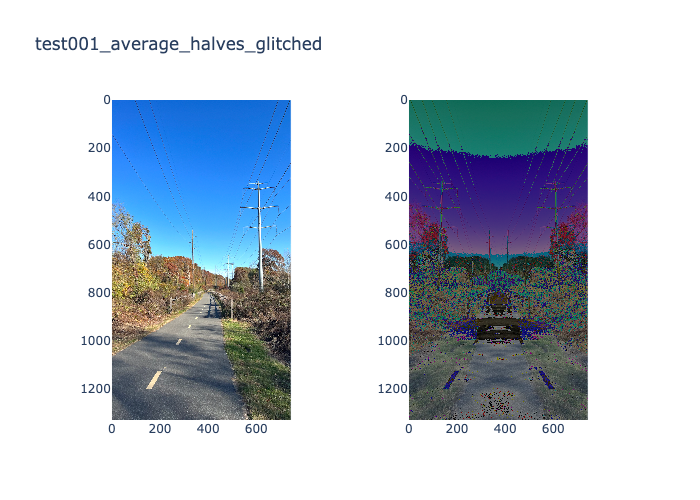
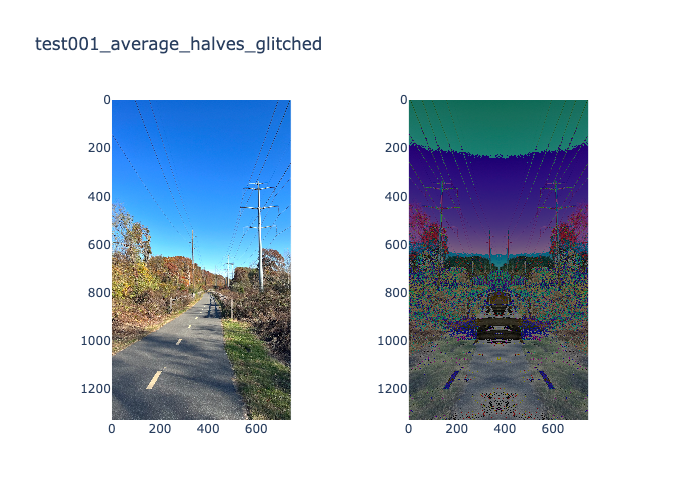
Detached (#1)
* trying to make more efficient

* trying to make more efficient

* repair bug in func_apply_to_halves, regenerate images

diff --git a/src/Spirals/spiral.py b/src/Spirals/spiral.py
@@ -5,6 +5,7 @@ from plotly.subplots import make_subplots
 import plotly.graph_objects as go
 from typing import Callable
 
+
 THIS_DIR = os.path.dirname(os.path.abspath(__file__))
 
 
@@ -61,19 +62,22 @@ def stack_pixels(arr1: np.ndarray, arr2: np.ndarray):
     """
     assert arr1.shape == arr2.shape
     n = arr1.shape[0]
-    return np.append(arr1, arr2).reshape(2,n)
+    return np.append(arr1, arr2).reshape(2, *arr1.shape)
 
 
-def func_apply_to_halves(arr: np.ndarray, func: Callable, preprocessing_func=stack_pixels):
-    new_arr = arr.copy()  # prevents overwriting the original object passed
-    h, w, c = new_arr.shape
-    for i in range(h):
-        for j in range(w):
-            opp_index = w - j - 1
-            arr1 = arr[i][j]
-            arr2 = arr[i][opp_index]
-            value_to_insert = func(preprocessing_func(arr1, arr2))
-            new_arr[i][j] = value_to_insert
+def func_apply_to_halves(arr: np.ndarray, preprocessing_func=stack_pixels, func: Callable = lambda x:x, postprocessing_func= lambda x:x):
+    h, w, c = arr.shape
+
+    left_half_idx_end = (w//2)+1
+    right_half_idx_start = -left_half_idx_end
+
+    left_half = arr.copy()[:, :left_half_idx_end, :]
+    right_half = np.flip(arr.copy()[:, right_half_idx_start:, :], axis=1)
+    preproc_arr = preprocessing_func(left_half, right_half)
+    func_applied_arr = func(preproc_arr)
+    postproc_arr = postprocessing_func(func_applied_arr)
+    new_arr = np.append(postproc_arr, np.flip(postproc_arr[:, :, :], axis=1), axis=1)
+
     return new_arr
 
 
@@ -113,7 +117,12 @@ def min_of_all_channels_halves(arr: np.ndarray):
     :param arr:
     :return:
     """
-    return func_apply_to_halves(arr, func=np.min)
+    return func_apply_to_halves(
+        arr,
+        preprocessing_func=lambda x, y: np.append(x[:, :, :3], y[:, :, :3], axis=2),
+        func=lambda x: np.min(x, axis=2),
+        postprocessing_func=lambda x: np.repeat(x.reshape(*x.shape, 1), 3, axis=2)
+    )
 
 
 def max_of_all_channels_halves(arr: np.ndarray):
@@ -123,7 +132,12 @@ def max_of_all_channels_halves(arr: np.ndarray):
     :param arr:
     :return:
     """
-    return func_apply_to_halves(arr, func=lambda x: np.max(x[:, :3]))
+    return func_apply_to_halves(
+        arr,
+        preprocessing_func=lambda x,y: np.append(x[:, :, :3], y[:, :, :3], axis=2),
+        func=lambda x: np.max(x, axis=2),
+        postprocessing_func= lambda x: np.repeat(x.reshape(*x.shape,1), 3, axis=2)
+    )
 
 
 def min_halves(arr: np.ndarray):
@@ -151,9 +165,10 @@ if __name__=="__main__":
 
     funcs = [mirror_right_over_left, mirror_left_over_right, flip_horizontal, average_halves, average_halves_glitched,
      sum_halves, min_of_all_channels_halves, min_halves, max_of_all_channels_halves, max_halves]
-    # funcs = [max_of_all_channels_halves]
+    # funcs = [max_halves]
 
     for func in funcs:
+        print(f"applying function {func.__name__}")
         new_image_arr = func(image_arr)
 
         # display image
